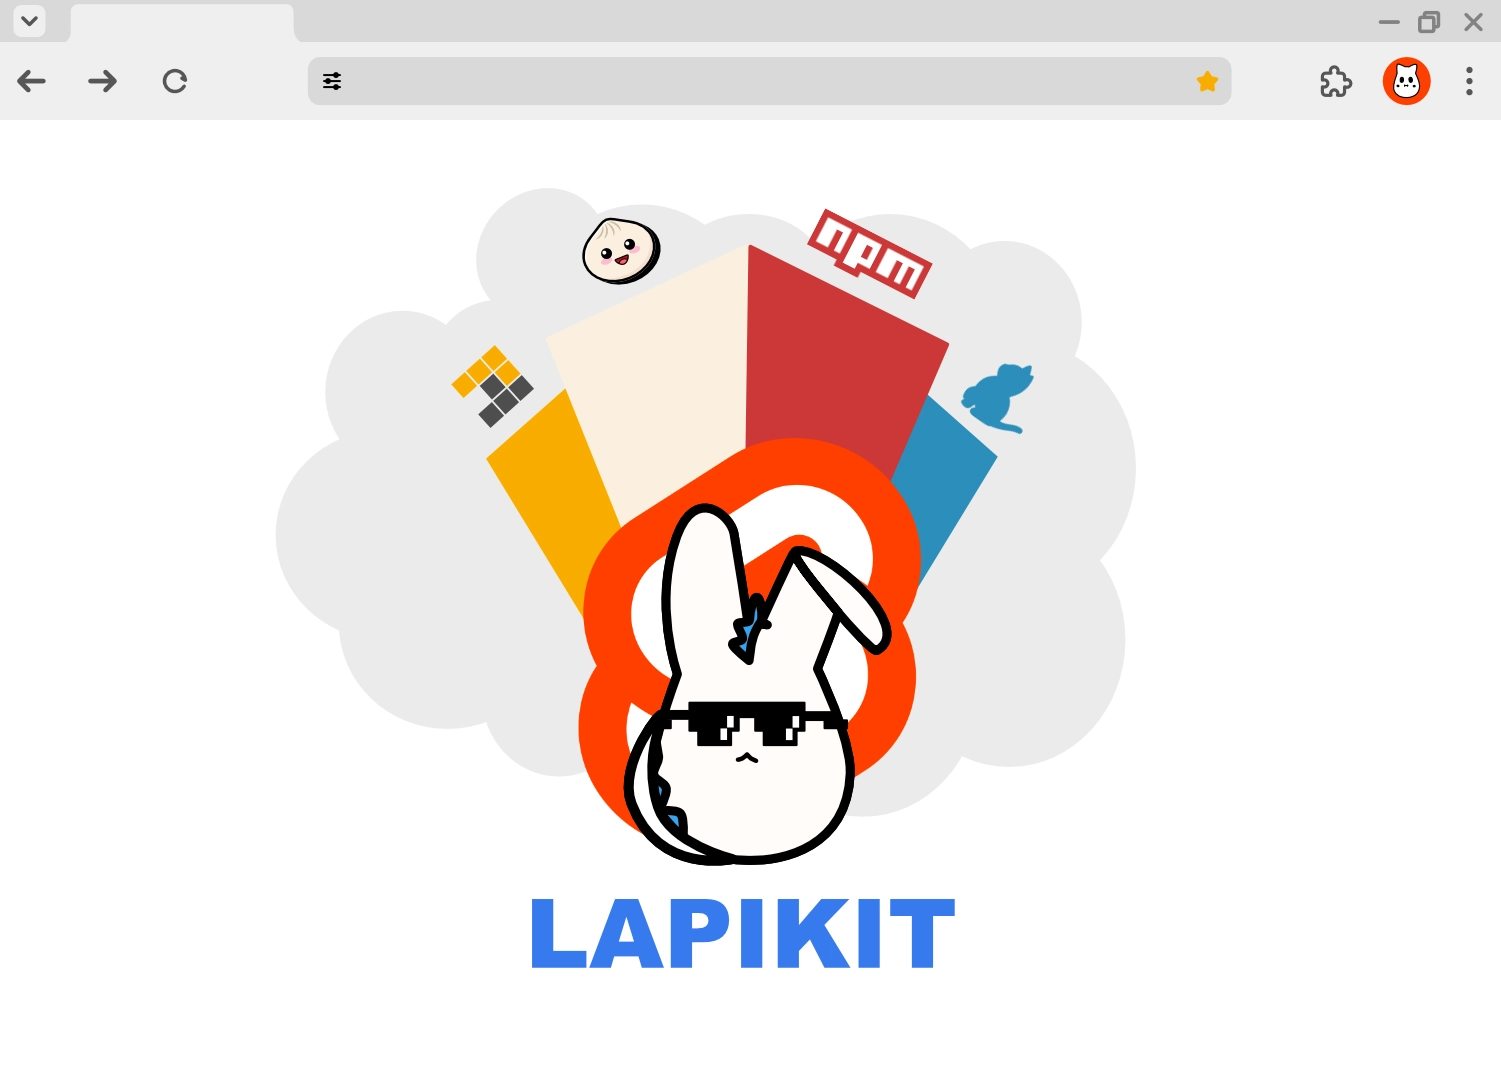
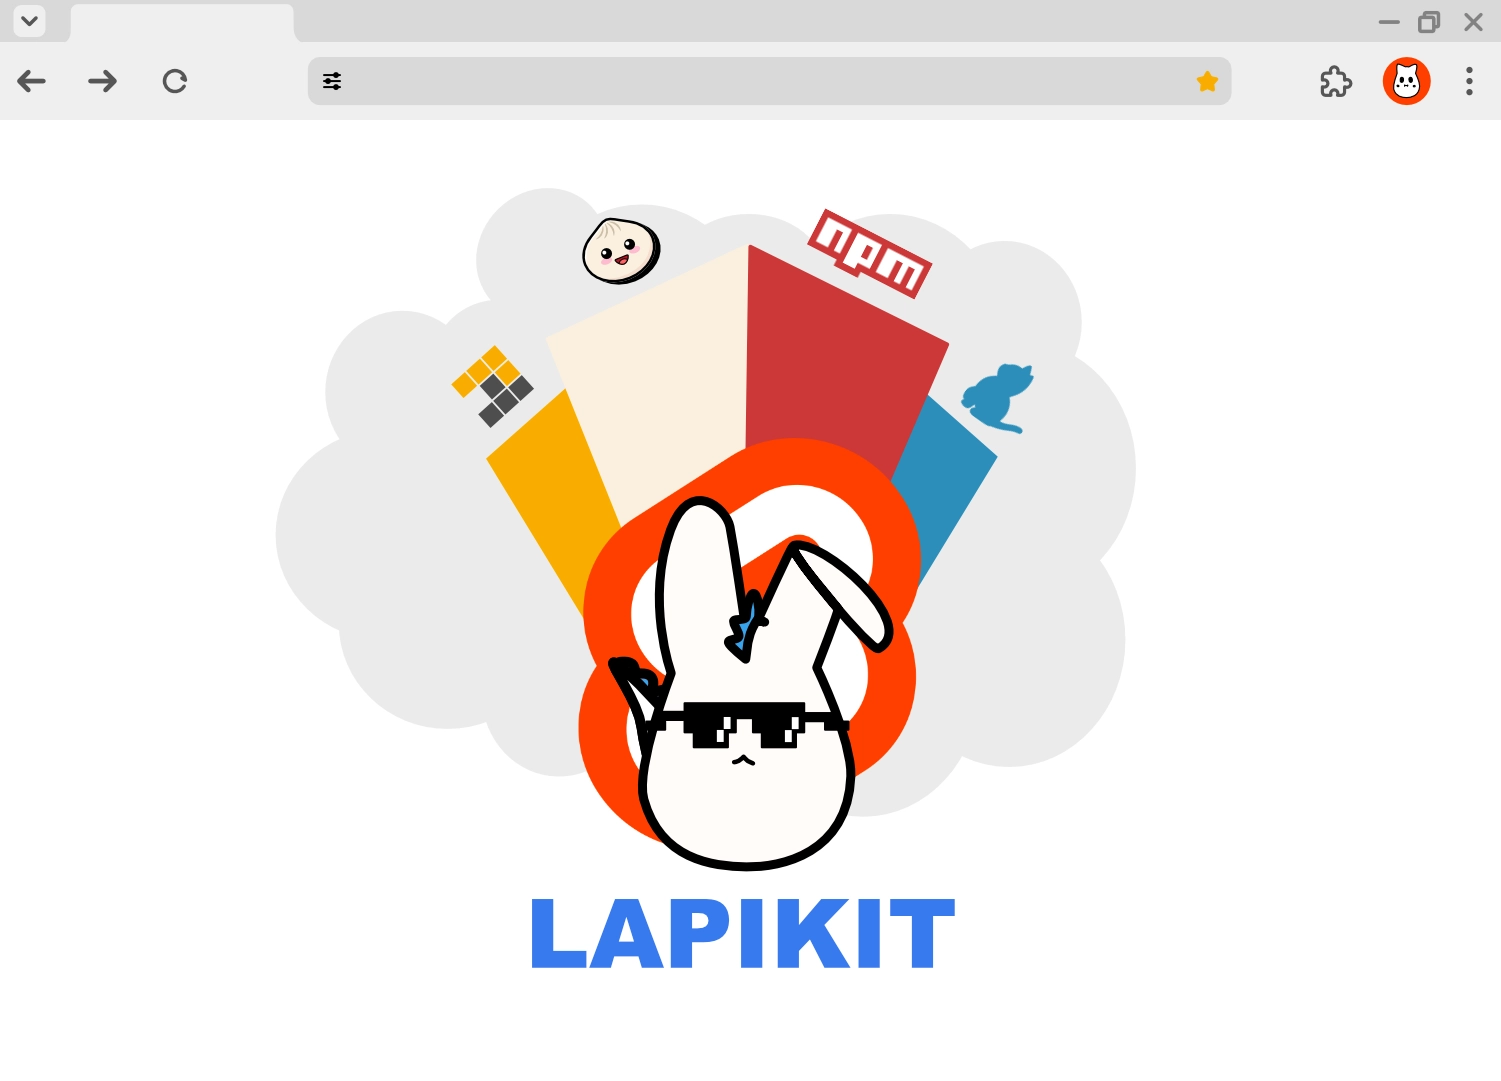
update images + text + test new bugfix for gtm

Changed region(s): [[0.3984, 0.4579, 0.5516, 0.8242], [0.4903, 0.4884, 0.6129, 0.6105], [0.5516, 0.7327, 0.5823, 0.7632]]

diff --git a/apps/website/src/routes/+layout.svelte b/apps/website/src/routes/+layout.svelte
@@ -4,7 +4,11 @@
 	import '../lib/styles/app.css';
 	import '../plugins/lapikit.ts';
 	import '@fontsource/roboto';
-	import { PUBLIC_ENV } from '$env/static/public';
+	import {
+		PUBLIC_ENV,
+		PUBLIC_GOOGLE_TAG_MANAGER_ENABLED,
+		PUBLIC_GOOGLE_TAG_MANAGER_ID
+	} from '$env/static/public';
 	import { page } from '$app/state';
 	import { browser } from '$app/environment';
 	import { consentManaged, mode, search } from '$lib/stores/app';
@@ -12,6 +16,9 @@
 	import { Search } from '$lib/components';
 	import Banner from '$components/banner.svelte';
 	import ConsentModal from '$components/consent-modal.svelte';
+
+	// TEMPS
+	import Gtm from '$components/gtm.svelte';
 
 	mode.set(PUBLIC_ENV);
 
@@ -44,6 +51,8 @@
 	<link rel="alternate" hreflang="x-default" href={page.url.href} />
 	<meta name="color-scheme" content="light dark" />
 </svelte:head>
+
+<Gtm gtm={PUBLIC_GOOGLE_TAG_MANAGER_ENABLED} gtmID={PUBLIC_GOOGLE_TAG_MANAGER_ID} />
 
 <App dark={page.url.pathname === '/'}>
 	<Banner banner={data.banner} />

diff --git a/apps/website/src/routes/docs/hooks/+page.svelte b/apps/website/src/routes/docs/hooks/+page.svelte
@@ -10,8 +10,11 @@
 </script>
 
 <svelte:head>
-	<title>Lapikit • Hooks</title>
-	<meta name="description" content="Find out more about Lapikit's hooks." />
+	<title>Hooks stores and actions • Lapikit Svelte Library</title>
+	<meta
+		name="description"
+		content="Built-in stores and actions with Lapikit: connect components and stores in Svelte with minimal boilerplate, manage state, transitions and logic fluently."
+	/>
 </svelte:head>
 
 <div class="mx-auto grid w-full min-w-0 pb-6 pl-4 pr-4 md:max-w-[760px] md:pl-0 xl:max-w-[1024px]">

diff --git a/packages/site-kit/src/components/rgpd.svelte b/packages/site-kit/src/components/rgpd.svelte
@@ -5,7 +5,7 @@
 
 	// components
 	import Analytics from './analytics/gtag.svelte';
-	import GoogleTagManager from './analytics/gtm.svelte';
+	// import GoogleTagManager from './analytics/gtm.svelte';
 
 	let { dialog, gta, gtaID, gtm, gtmID, bing, bingID, open = $bindable() } = $props();
 
@@ -50,6 +50,6 @@
 
 <Analytics {gta} {gtaID} />
 
-<GoogleTagManager {gtm} {gtmID} />
+<!-- <GoogleTagManager {gtm} {gtmID} /> -->
 
 {@render dialog?.(model)}

diff --git a/apps/website/src/lib/components/gtm.svelte b/apps/website/src/lib/components/gtm.svelte
@@ -1,0 +1,17 @@
+<script lang="ts">
+	let { gtm, gtmID } = $props();
+</script>
+
+{#if gtm && gtmID}
+	<!-- Google Tag Manager (noscript) -->
+	<noscript>
+		<iframe
+			src={`https://www.googletagmanager.com/ns.html?id=${gtmID}`}
+			height="0"
+			width="0"
+			style="display:none;visibility:hidden"
+			title="Google Tag Manager"
+		></iframe>
+	</noscript>
+	<!-- End Google Tag Manager (noscript) -->
+{/if}

diff --git a/README.md b/README.md
@@ -4,7 +4,7 @@ This is the monorepo for Lapikit, a Svelte component library and design system. 
 
 ## What is Lapikit?
 
-Lapikit is a Svelte component library that provides a set of reusable UI components and design patterns to help developers build consistent and visually appealing web applications quickly. It is designed to be flexible, customizable, and easy to use.
+Lapikit is a Svelte component library that provides a set of reusable user interfaces components and design patterns to help developers build consistent and visually appealing web applications quickly. It’s designed to be flexible, customizable and easy to use.
 
 Learn more at [lapikit.dev](https://lapikit.dev) or join our community on [Discord](https://discord.gg/gn9ZGtDtK4).
 
